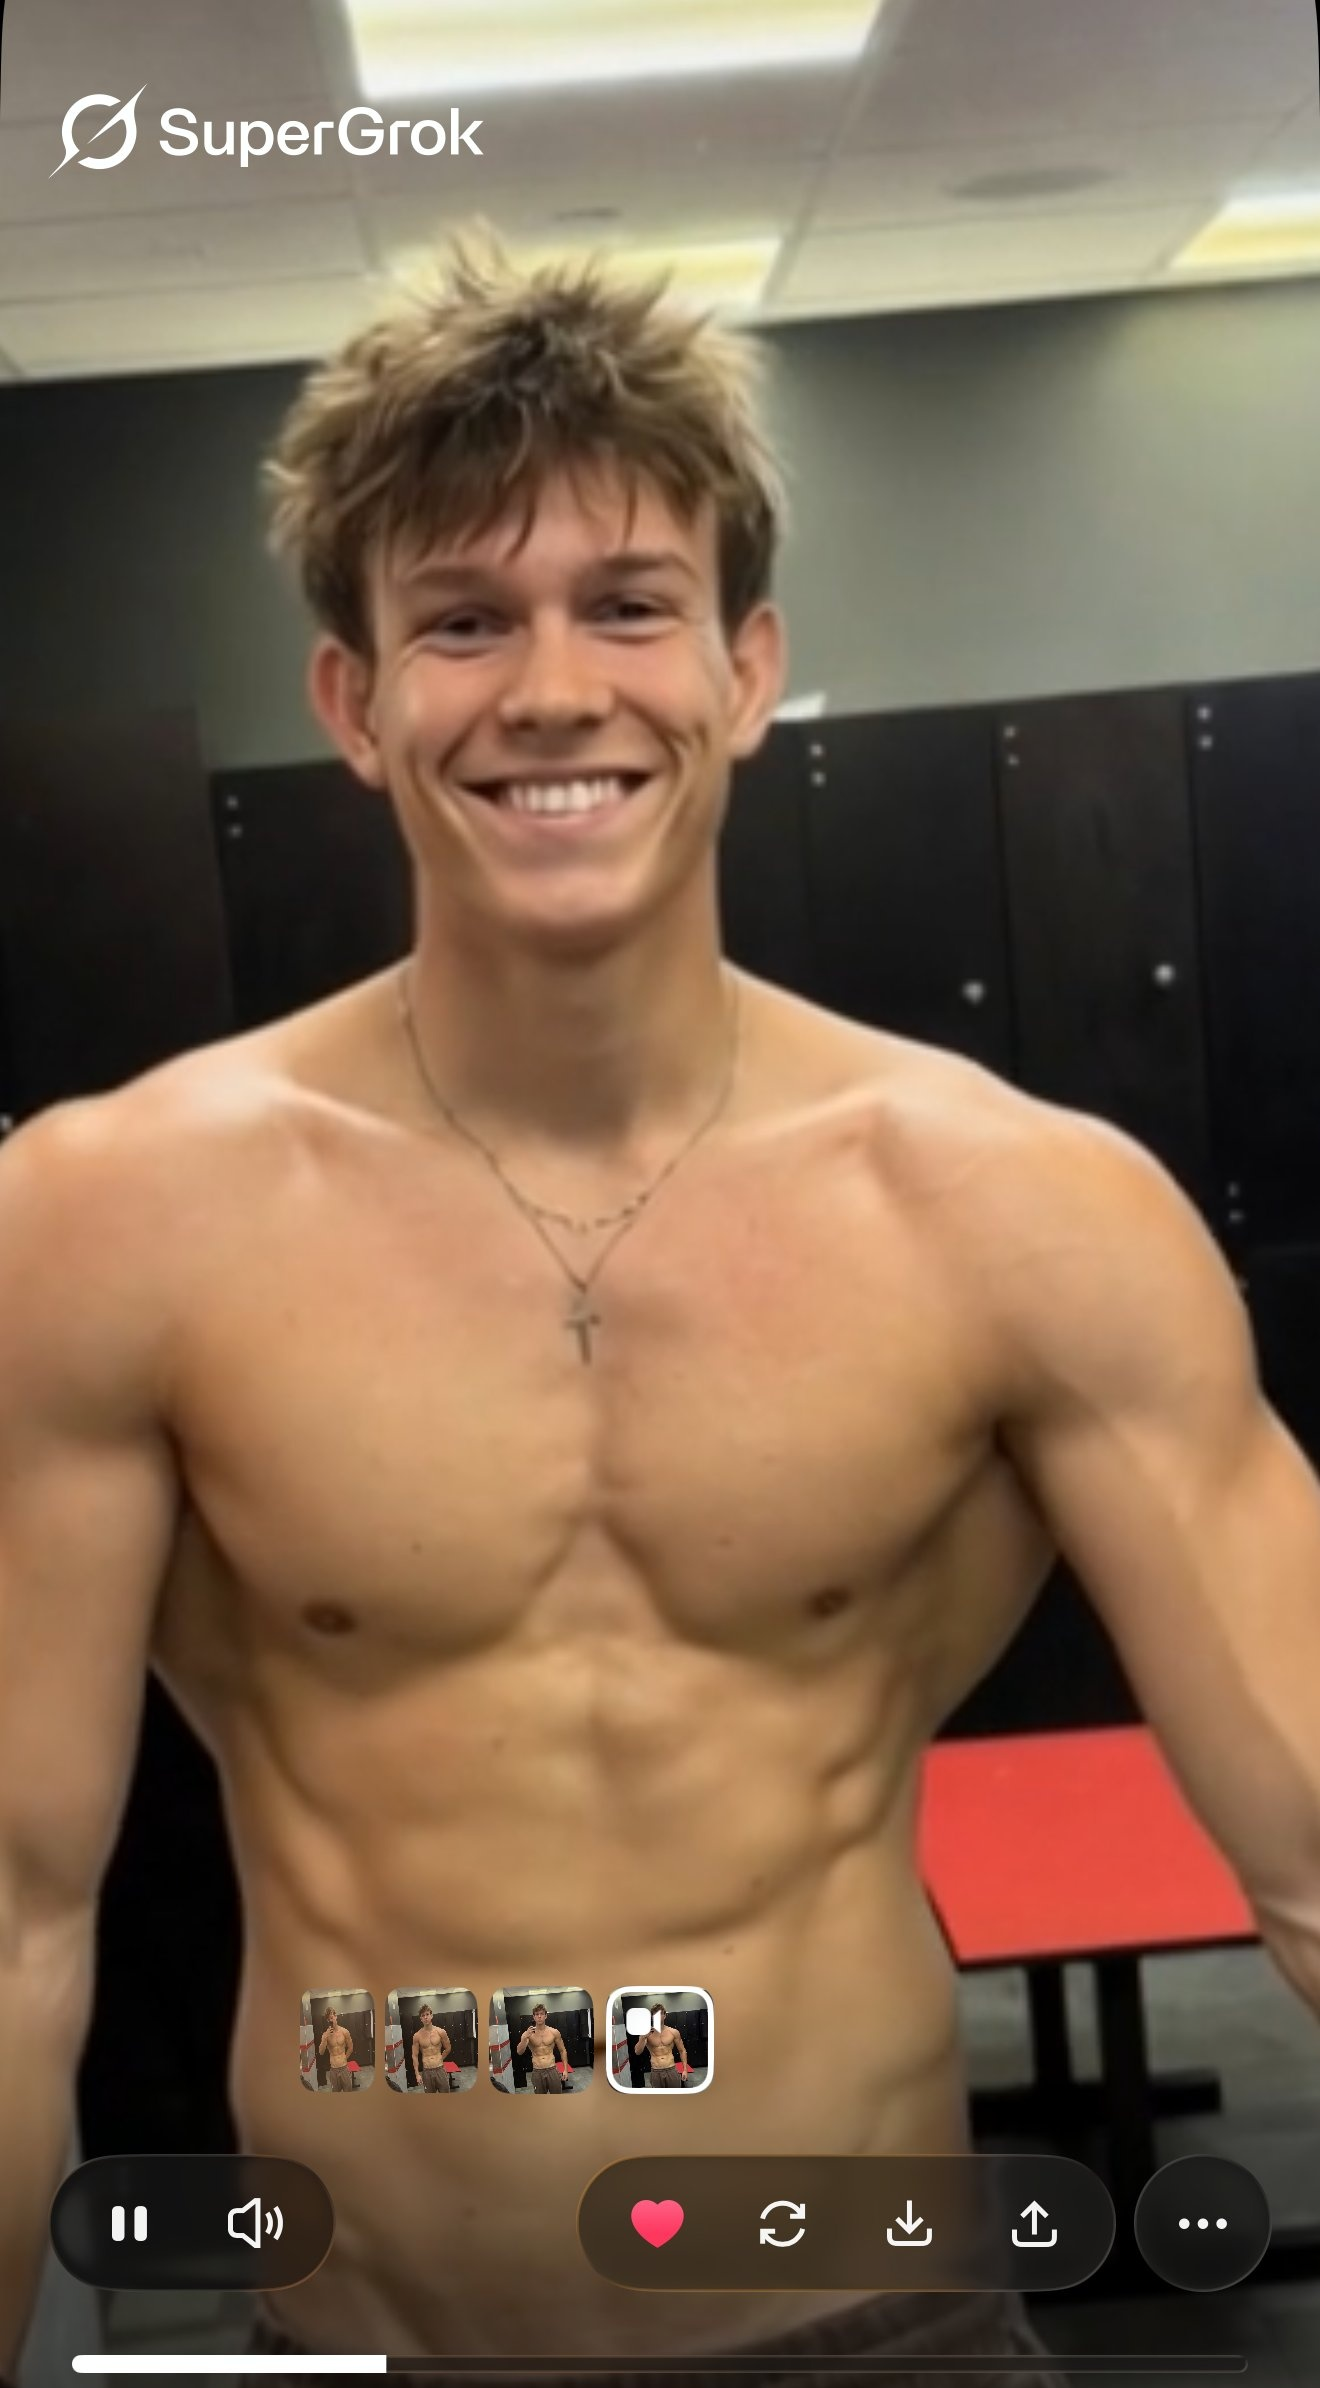
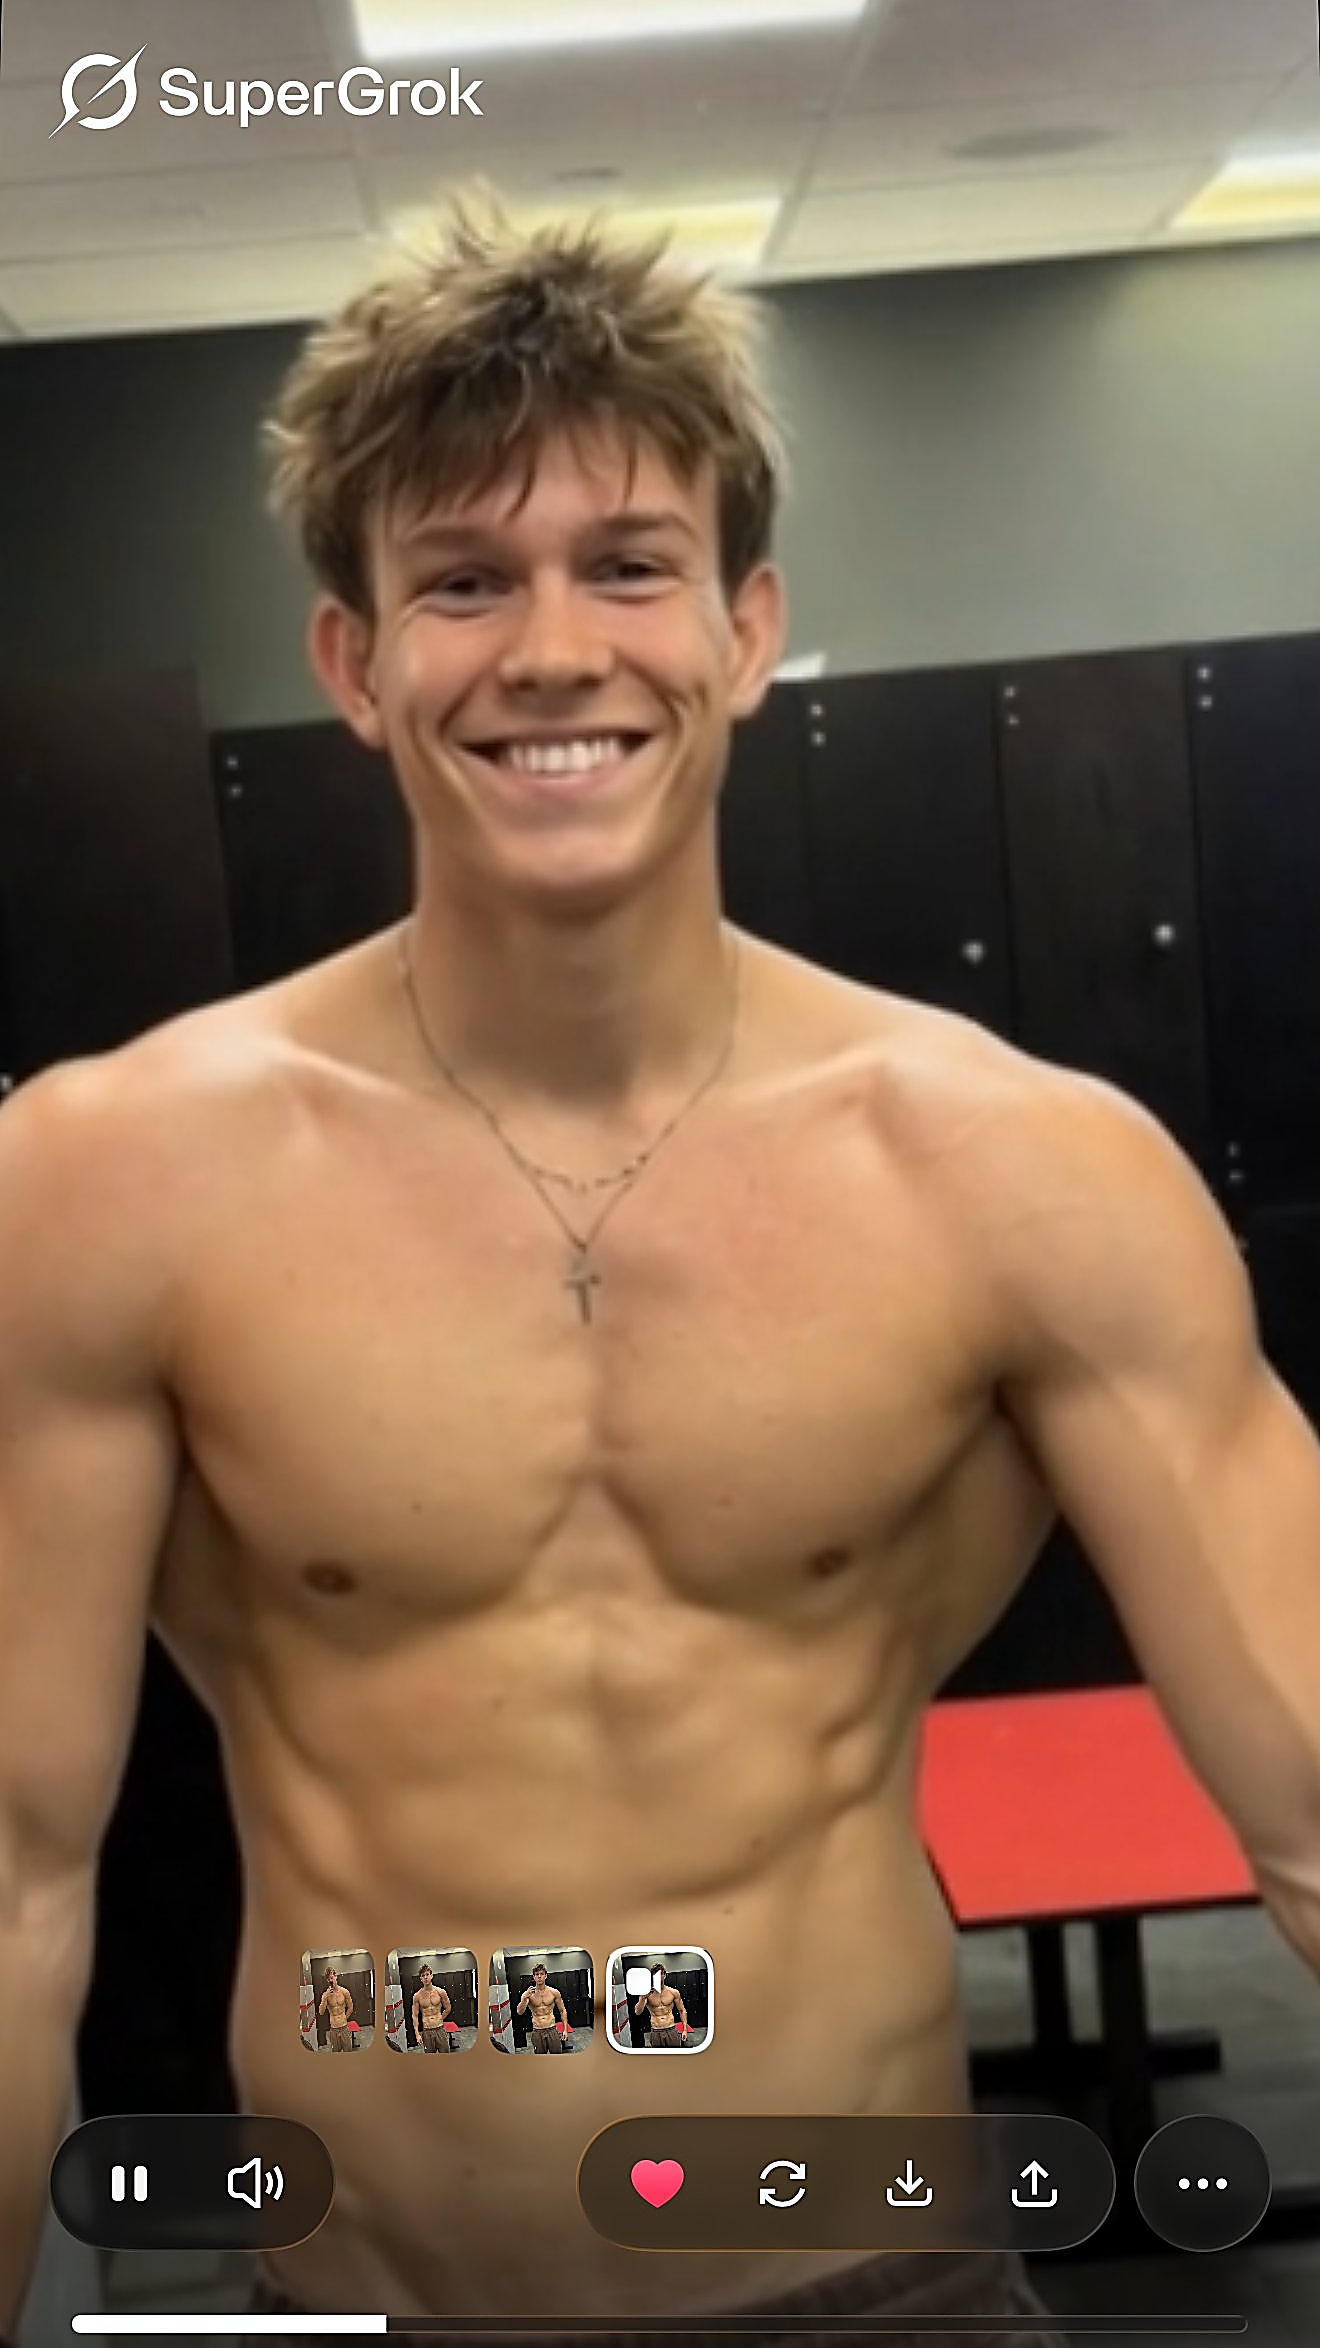
Lighten hero, fix about photo crop and size

diff --git a/client/src/pages/Home.jsx b/client/src/pages/Home.jsx
@@ -20,7 +20,7 @@ export default function Home() {
       {/* HERO */}
       <section style={{ minHeight: '100vh', display: 'flex', flexDirection: 'column', justifyContent: 'flex-end', padding: '0 4rem 6rem', position: 'relative', overflow: 'hidden' }}>
         <div style={{ position: 'absolute', inset: 0, background: 'url("/images/sawyer_hero.jpg") center 20% / cover no-repeat' }} />
-        <div style={{ position: 'absolute', inset: 0, background: 'linear-gradient(to right, rgba(10,10,10,0.92) 0%, rgba(10,10,10,0.6) 55%, rgba(10,10,10,0.2) 100%)' }} />
+        <div style={{ position: 'absolute', inset: 0, background: 'linear-gradient(to right, rgba(10,10,10,0.78) 0%, rgba(10,10,10,0.45) 55%, rgba(10,10,10,0.15) 100%)' }} />
         <div style={{ position: 'absolute', inset: 0, backgroundImage: 'linear-gradient(rgba(255,255,255,0.025) 1px, transparent 1px), linear-gradient(90deg, rgba(255,255,255,0.025) 1px, transparent 1px)', backgroundSize: '80px 80px', maskImage: 'linear-gradient(to bottom, transparent 0%, rgba(0,0,0,0.3) 30%, transparent 100%)' }} />
 
         <div style={{ fontSize: '0.72rem', letterSpacing: '0.2em', textTransform: 'uppercase', color: '#c9a84c', marginBottom: '1.5rem', display: 'flex', alignItems: 'center', gap: '1rem', position: 'relative', zIndex: 1 }}>
@@ -79,7 +79,7 @@ export default function Home() {
       <section id="about" style={{ padding: '7rem 4rem', background: '#161616' }}>
         <div style={{ display: 'grid', gridTemplateColumns: '1fr 1fr', gap: '6rem', alignItems: 'center' }}>
           <div style={{ position: 'relative' }}>
-            <img src="/images/sawyer_about.jpg" style={{ width: '100%', aspectRatio: '3/4', objectFit: 'cover', objectPosition: 'center top', display: 'block' }} alt="Sawyer Kurisko" />
+            <img src="/images/sawyer_about.jpg" style={{ width: '100%', maxHeight: '550px', objectFit: 'cover', objectPosition: 'center 10%', display: 'block', borderRadius: '2px' }} alt="Sawyer Kurisko" />
             <div style={{ position: 'absolute', bottom: '-1.5rem', right: '-1.5rem', width: '60%', height: '60%', border: '1px solid rgba(201,168,76,0.15)', pointerEvents: 'none' }} />
             <div style={{ position: 'absolute', top: '2rem', left: '-2rem', background: '#c9a84c', color: '#0a0a0a', padding: '1.5rem', textAlign: 'center', width: '90px' }}>
               <span style={{ fontFamily: "'Bebas Neue', sans-serif", fontSize: '2.5rem', lineHeight: 1, display: 'block' }}>5</span>
